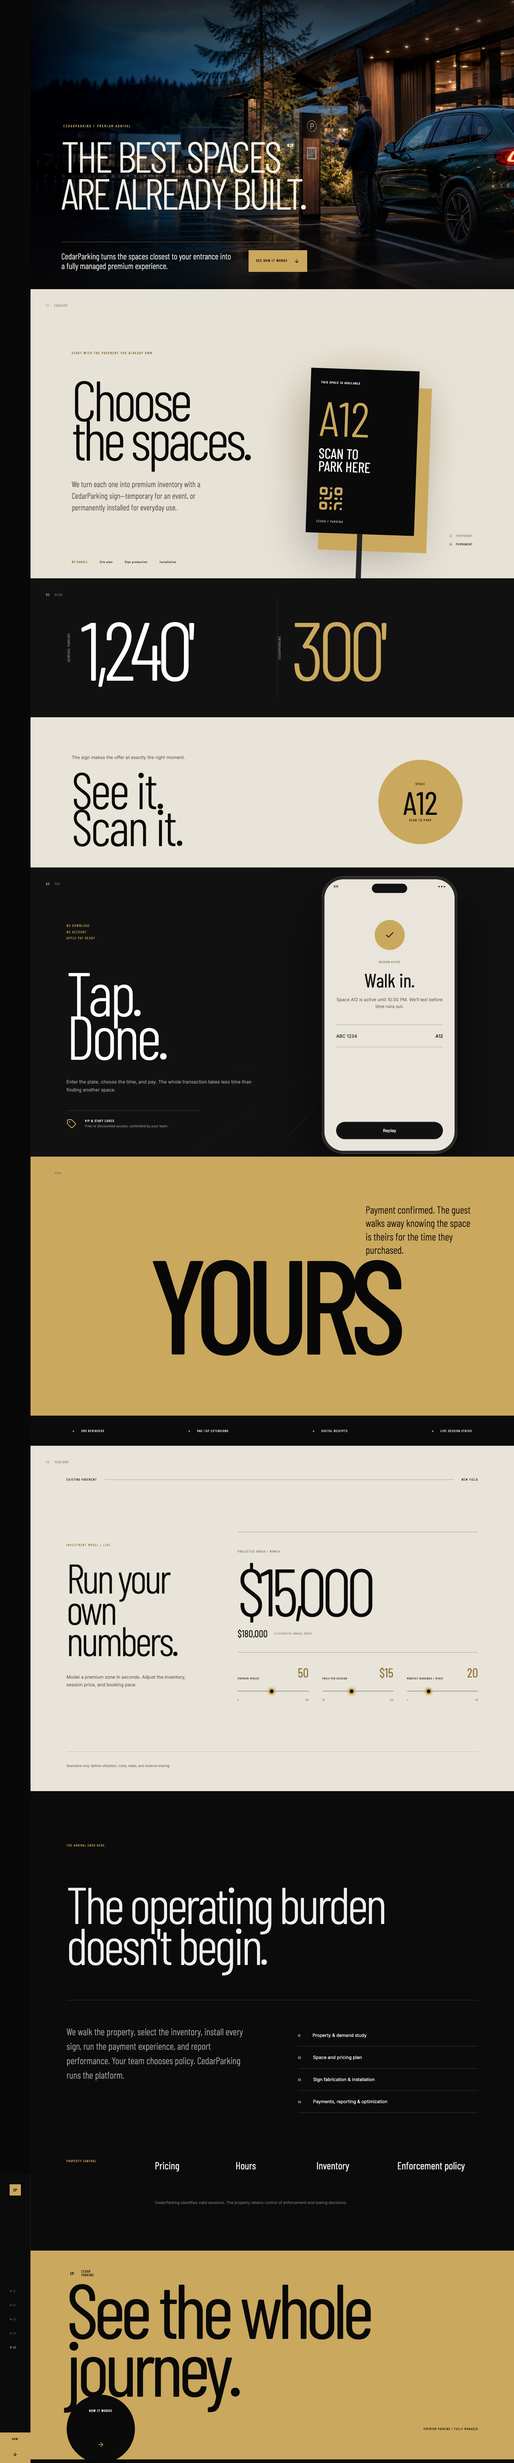
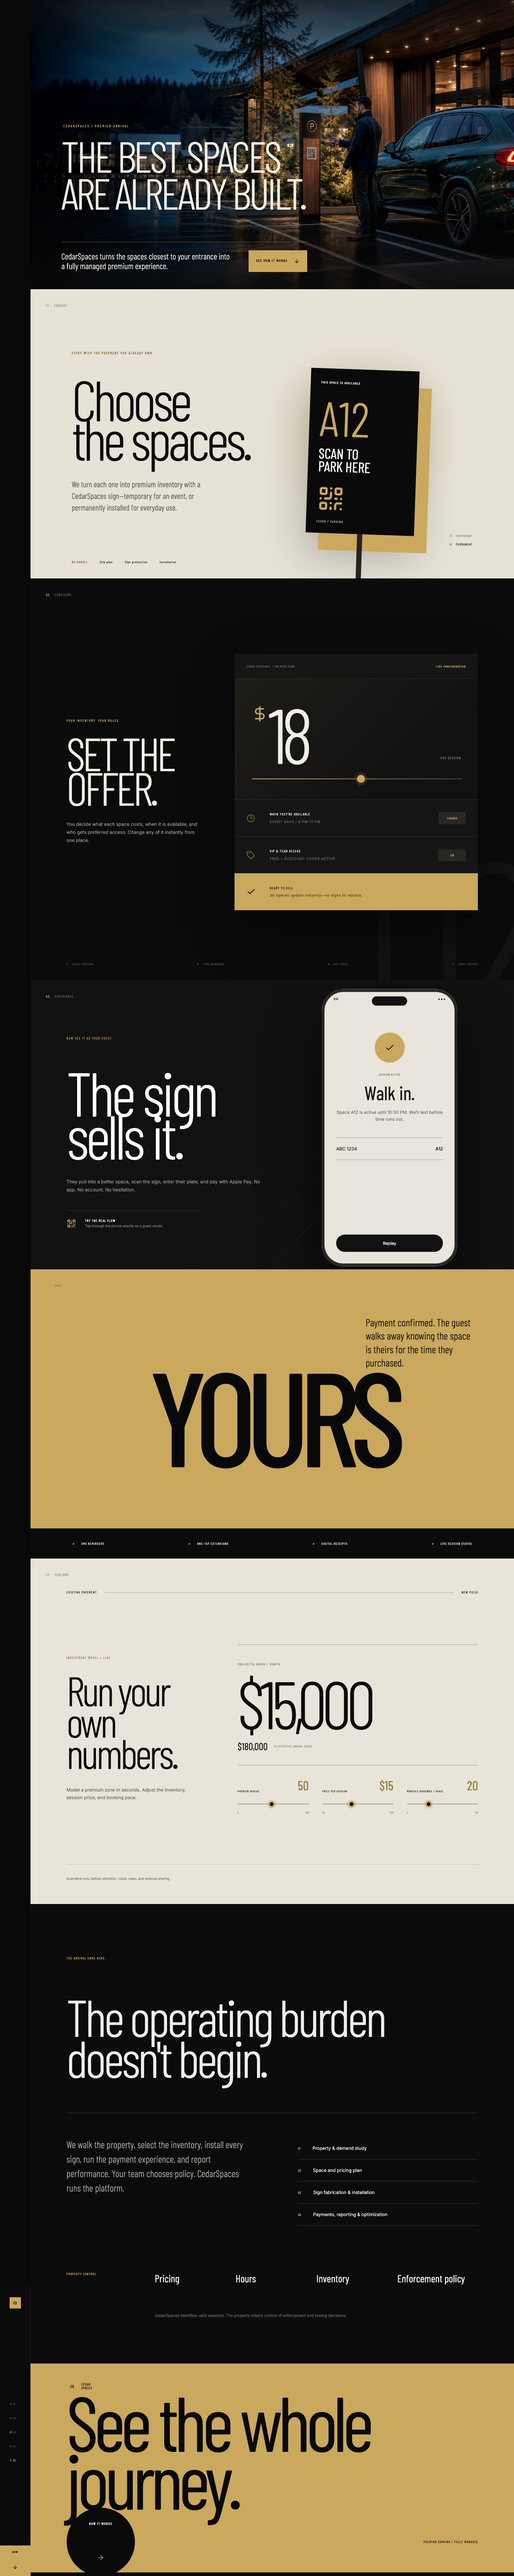
Restructure CedarSpaces executive journey

Changed region(s): [[0.0625, 0.0, 1.0, 0.9966], [0.0, 0.872, 0.0312, 0.9031]]

diff --git a/src/styles.css b/src/styles.css
@@ -1926,6 +1926,176 @@ p {
 .parking-sign:after { content: ''; position: absolute; left: 50%; top: 100%; width: 13px; height: 190px; background: #242321; transform: translateX(-50%); }
 .parking-sign span,.parking-sign small { font: 600 .48rem Barlow Condensed; letter-spacing: .18em; }
 .parking-sign strong { font: 300 7.5rem/.85 Barlow Condensed; color: var(--gold); margin-top: 30px; }
+
+/* Chapter 02: keep the executive in the driver's seat before switching to the guest. */
+.configure {
+  min-height: 1000px;
+  padding: 11vh 7vw 9vh;
+  display: grid;
+  grid-template-columns: minmax(260px, .72fr) minmax(540px, 1.28fr);
+  gap: 6vw;
+  align-items: center;
+  background: #0b0b0b;
+  color: #f2efe7;
+  overflow: hidden;
+}
+.configure:before {
+  content: "02";
+  position: absolute;
+  right: -2vw;
+  bottom: -13vh;
+  font: 300 46vw/.7 Barlow Condensed;
+  letter-spacing: -.08em;
+  color: #121212;
+  pointer-events: none;
+}
+.configure .chapter-index { position: absolute; }
+.configure-copy { position: relative; z-index: 2; max-width: 470px; }
+.configure-copy > span {
+  font: 500 .52rem Barlow Condensed;
+  letter-spacing: .2em;
+  color: var(--gold);
+}
+.configure-copy h2 {
+  margin: 30px 0 38px;
+  font: 300 clamp(5rem, 9vw, 10.5rem)/.75 Barlow Condensed;
+  letter-spacing: -.06em;
+  text-transform: uppercase;
+}
+.configure-copy p {
+  max-width: 350px;
+  font-size: .72rem;
+  line-height: 1.75;
+  color: #969188;
+}
+.property-setup {
+  position: relative;
+  z-index: 2;
+  width: 100%;
+  max-width: 820px;
+  justify-self: end;
+  background: #151515;
+  box-shadow: 0 45px 100px #0009;
+}
+.setup-topline {
+  min-height: 62px;
+  padding: 0 30px;
+  display: flex;
+  align-items: center;
+  justify-content: space-between;
+  border-bottom: 1px solid #2c2b29;
+  font: 500 .46rem Barlow Condensed;
+  letter-spacing: .16em;
+  color: #77736c;
+}
+.setup-topline b { color: var(--gold); }
+.setup-price {
+  min-height: 300px;
+  padding: 38px 42px 34px;
+  display: grid;
+  grid-template-columns: auto 1fr auto;
+  grid-template-rows: 1fr auto;
+  align-items: center;
+  background: linear-gradient(135deg, #1f1d18, #111 70%);
+}
+.setup-price > svg { width: 42px; height: 42px; color: var(--gold); align-self: start; margin-top: 28px; }
+.setup-price strong {
+  font: 300 clamp(9rem, 15vw, 17rem)/.7 Barlow Condensed;
+  letter-spacing: -.08em;
+  color: #f2efe7;
+}
+.setup-price span {
+  align-self: end;
+  padding-bottom: 30px;
+  font: 500 .5rem Barlow Condensed;
+  letter-spacing: .18em;
+  color: #88837a;
+}
+.setup-price input {
+  grid-column: 1/-1;
+  width: 100%;
+  height: 30px;
+  appearance: none;
+  background: transparent;
+}
+.setup-price input::-webkit-slider-runnable-track { height: 2px; background: linear-gradient(90deg, var(--gold), #48443b); }
+.setup-price input::-webkit-slider-thumb { appearance: none; width: 20px; height: 20px; margin-top: -9px; border-radius: 50%; background: var(--gold); box-shadow: 0 0 0 6px #caa85d22; }
+.setup-row {
+  min-height: 92px;
+  padding: 0 30px;
+  display: grid;
+  grid-template-columns: 42px 1fr auto;
+  gap: 16px;
+  align-items: center;
+  border-top: 1px solid #2c2b29;
+}
+.setup-row > svg { width: 21px; color: #8e7337; }
+.setup-row span { display: grid; gap: 8px; }
+.setup-row b, .setup-ready b { font: 500 .52rem Barlow Condensed; letter-spacing: .15em; }
+.setup-row small, .setup-ready small { font-size: .56rem; color: #77736c; letter-spacing: .06em; }
+.setup-row button {
+  min-width: 68px;
+  padding: 10px;
+  border: 0;
+  background: #292722;
+  color: var(--gold);
+  font: 500 .48rem Barlow Condensed;
+  letter-spacing: .14em;
+  cursor: pointer;
+}
+.setup-ready {
+  min-height: 92px;
+  padding: 0 30px;
+  display: grid;
+  grid-template-columns: 42px 1fr;
+  gap: 16px;
+  align-items: center;
+  background: var(--gold);
+  color: #090909;
+}
+.setup-ready > svg { width: 23px; }
+.setup-ready span { display: grid; gap: 7px; }
+.setup-ready small { color: #473817; }
+.configure-promise {
+  position: absolute;
+  z-index: 3;
+  left: 7vw;
+  right: 7vw;
+  bottom: 5vh;
+  display: flex;
+  justify-content: space-between;
+  font: 500 .45rem Barlow Condensed;
+  letter-spacing: .17em;
+  color: #5f5b54;
+}
+.configure-promise span:before { content: "+"; color: var(--gold); margin-right: 10px; }
+
+@media (max-width: 900px) {
+  .configure {
+    min-height: 1180px;
+    grid-template-columns: 1fr;
+    align-content: center;
+    gap: 50px;
+    padding: 12vh 7vw 10vh;
+  }
+  .configure-copy h2 { font-size: 16vw; }
+  .configure-copy p { font-size: .65rem; }
+  .property-setup { justify-self: stretch; max-width: none; }
+  .configure-promise { display: none; }
+}
+@media (max-width: 620px) {
+  .configure { min-height: 1080px; gap: 35px; }
+  .configure-copy h2 { margin: 22px 0 28px; font-size: 20vw; }
+  .setup-topline { padding: 0 20px; }
+  .setup-topline span { max-width: 130px; }
+  .setup-price { min-height: 230px; padding: 30px 22px 25px; grid-template-columns: 28px 1fr auto; }
+  .setup-price > svg { width: 25px; height: 25px; margin-top: 17px; }
+  .setup-price strong { font-size: 34vw; }
+  .setup-price span { padding-bottom: 15px; }
+  .setup-row, .setup-ready { min-height: 86px; padding: 0 20px; grid-template-columns: 30px 1fr auto; gap: 10px; }
+  .setup-ready { grid-template-columns: 30px 1fr; }
+  .setup-row small, .setup-ready small { font-size: .48rem; }
+}
 .parking-sign b { font: 400 2.2rem/.9 Barlow Condensed; margin: 24px 0; }
 .parking-sign svg { width: 68px; height: 68px; margin-top: auto; color: var(--gold); }
 .parking-sign small { margin-top: 18px; color: #aaa49a; }

diff --git a/src/App.tsx b/src/App.tsx
@@ -4,17 +4,70 @@ import {
   ArrowRight,
   Check,
   ChevronLeft,
+  Clock3,
+  DollarSign,
   QrCode,
   Tag,
 } from "lucide-react";
 
 const chapters = [
   ["01", "Convert"],
-  ["02", "Scan"],
-  ["03", "Pay"],
+  ["02", "Configure"],
+  ["03", "Experience"],
   ["04", "Own"],
   ["05", "Perform"],
 ];
+
+function PropertySetup() {
+  const [price, setPrice] = useState(12);
+  const [mode, setMode] = useState<"event" | "daily">("event");
+  const [vip, setVip] = useState(true);
+
+  return (
+    <div className="property-setup">
+      <div className="setup-topline">
+        <span>CEDAR ENTRANCE / PREMIUM ZONE</span>
+        <b>LIVE CONFIGURATION</b>
+      </div>
+      <div className="setup-price">
+        <DollarSign />
+        <strong>{price}</strong>
+        <span>PER SESSION</span>
+        <input
+          aria-label="Preview session price"
+          type="range"
+          min="5"
+          max="30"
+          value={price}
+          onChange={(event) => setPrice(Number(event.target.value))}
+        />
+      </div>
+      <div className="setup-row">
+        <Clock3 />
+        <span>
+          <b>WHEN THEY’RE AVAILABLE</b>
+          <small>{mode === "event" ? "EVENT DAYS / 4 PM–11 PM" : "EVERY DAY / 10 AM–10 PM"}</small>
+        </span>
+        <button onClick={() => setMode(mode === "event" ? "daily" : "event")}>CHANGE</button>
+      </div>
+      <div className="setup-row">
+        <Tag />
+        <span>
+          <b>VIP &amp; TEAM ACCESS</b>
+          <small>{vip ? "FREE + DISCOUNT CODES ACTIVE" : "PUBLIC RATE ONLY"}</small>
+        </span>
+        <button onClick={() => setVip(!vip)}>{vip ? "ON" : "OFF"}</button>
+      </div>
+      <div className="setup-ready">
+        <Check />
+        <span>
+          <b>READY TO SELL</b>
+          <small>36 spaces update instantly—no signs to replace.</small>
+        </span>
+      </div>
+    </div>
+  );
+}
 
 function Mark() {
   return (
@@ -338,31 +391,30 @@ function App() {
           ref={(n) => {
             nodes.current[1] = n;
           }}
-          className="chapter choose"
+          className="chapter configure"
         >
           <div className="chapter-index">
             <b>02</b>
-            <span>SCAN</span>
+            <span>CONFIGURE</span>
           </div>
-          <div className="distance">
-            <span>GENERAL PARKING</span>
-            <strong>1,240'</strong>
-            <i />
-            <span>CEDARSPACES</span>
-            <strong>300'</strong>
-          </div>
-          <div className="choice-copy">
-            <p>The sign makes the offer at exactly the right moment.</p>
+          <div className="configure-copy">
+            <span>YOUR INVENTORY. YOUR RULES.</span>
             <h2>
-              See it.
+              Set the
               <br />
-              Scan it.
+              offer.
             </h2>
+            <p>
+              You decide what each space costs, when it is available, and who
+              gets preferred access. Change any of it instantly from one place.
+            </p>
           </div>
-          <div className="space-tag">
-            <span>SPACE</span>
-            <b>A12</b>
-            <small>SCAN TO PARK</small>
+          <PropertySetup />
+          <div className="configure-promise">
+            <span>EVENT PRICING</span>
+            <span>TIME WINDOWS</span>
+            <span>VIP CODES</span>
+            <span>STAFF ACCESS</span>
           </div>
         </article>
 
@@ -376,29 +428,23 @@ function App() {
         >
           <div className="chapter-index">
             <b>03</b>
-            <span>PAY</span>
+            <span>EXPERIENCE</span>
           </div>
           <div className="activation-copy">
-            <p>
-              NO DOWNLOAD
-              <br />
-              NO ACCOUNT
-              <br />
-              APPLE PAY READY
-            </p>
+            <p>NOW SEE IT AS YOUR GUEST.</p>
             <h2>
-              Tap.
+              The sign
               <br />
-              Done.
+              sells it.
             </h2>
             <span>
-              Enter the plate, choose the time, and pay. The whole transaction
-              takes less time than finding another space.
+              They pull into a better space, scan the sign, enter their plate,
+              and pay with Apple Pay. No app. No account. No hesitation.
             </span>
             <div className="access-code">
-              <Tag />
-              <b>VIP &amp; STAFF CODES</b>
-              <small>Free or discounted access, controlled by your team.</small>
+              <QrCode />
+              <b>TRY THE REAL FLOW</b>
+              <small>Tap through the phone exactly as a guest would.</small>
             </div>
           </div>
           <Phone />

diff --git a/tests/site.spec.ts b/tests/site.spec.ts
@@ -14,6 +14,12 @@ test('CedarSpaces arrival journey and booking demo work', async ({ page }, testI
   await expect(page.getByRole('heading', { name: /choose the spaces/i })).toBeVisible()
   await expect(page.getByText('TEMPORARY', { exact: true })).toBeVisible()
   await expect(page.getByText('PERMANENT', { exact: true })).toBeVisible()
+  await page.locator('#chapter-1').scrollIntoViewIfNeeded()
+  await expect(page.getByRole('heading', { name: /set the offer/i })).toBeVisible()
+  await expect(page.getByText(/event days/i)).toBeVisible()
+  await expect(page.getByText(/free \+ discount codes active/i)).toBeVisible()
+  await page.getByRole('slider', { name: 'Preview session price' }).fill('18')
+  await expect(page.locator('.setup-price strong')).toHaveText('18')
   await page.locator('#chapter-2').scrollIntoViewIfNeeded()
   await expect(page.getByRole('button', { name: /claim this space/i })).toBeVisible()
   await page.getByRole('button', { name: /claim this space/i }).click()
@@ -44,7 +50,7 @@ for (const viewport of [
   { name: 'tablet', width: 768, height: 1024 },
   { name: 'desktop', width: 1440, height: 900 },
 ]) {
-  test(`hero content stays inside the viewport at ${viewport.name}`, async ({ page }) => {
+  test(`page content stays inside the viewport at ${viewport.name}`, async ({ page }) => {
     await page.setViewportSize({ width: viewport.width, height: viewport.height })
     await page.goto('/cedarpass/')
 
